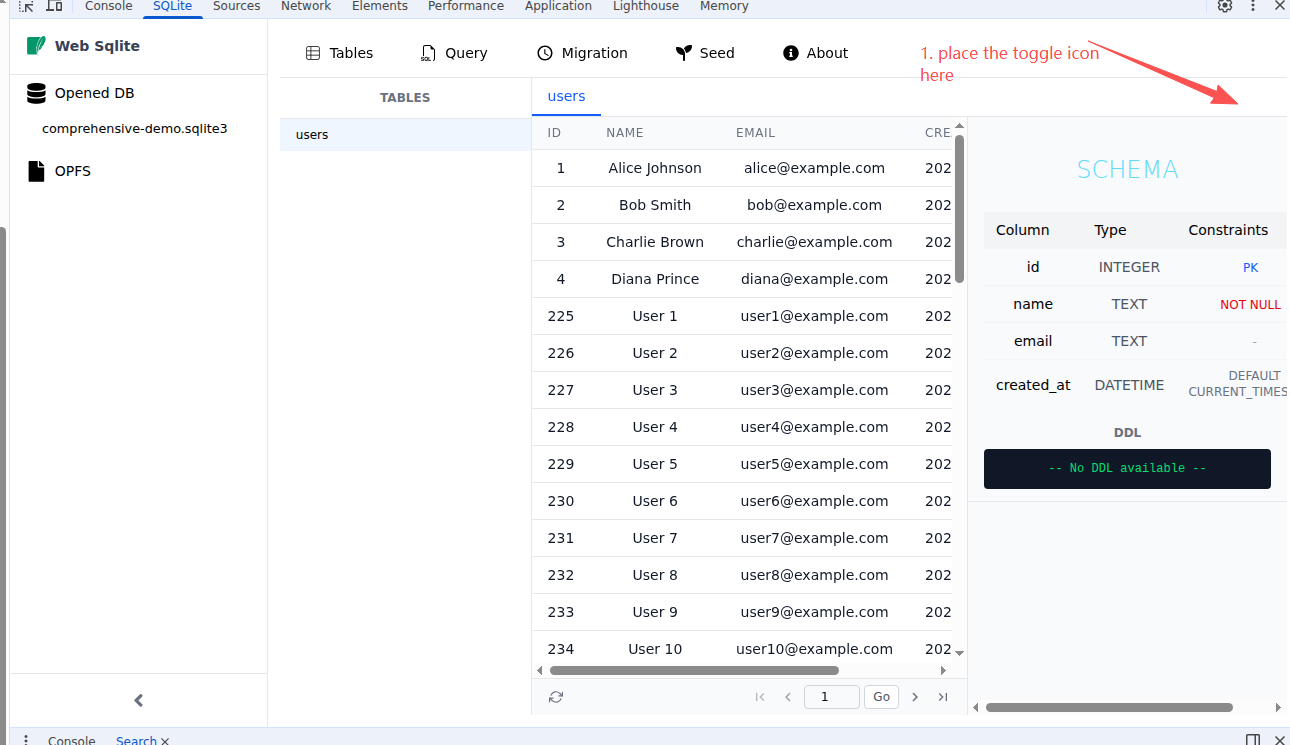
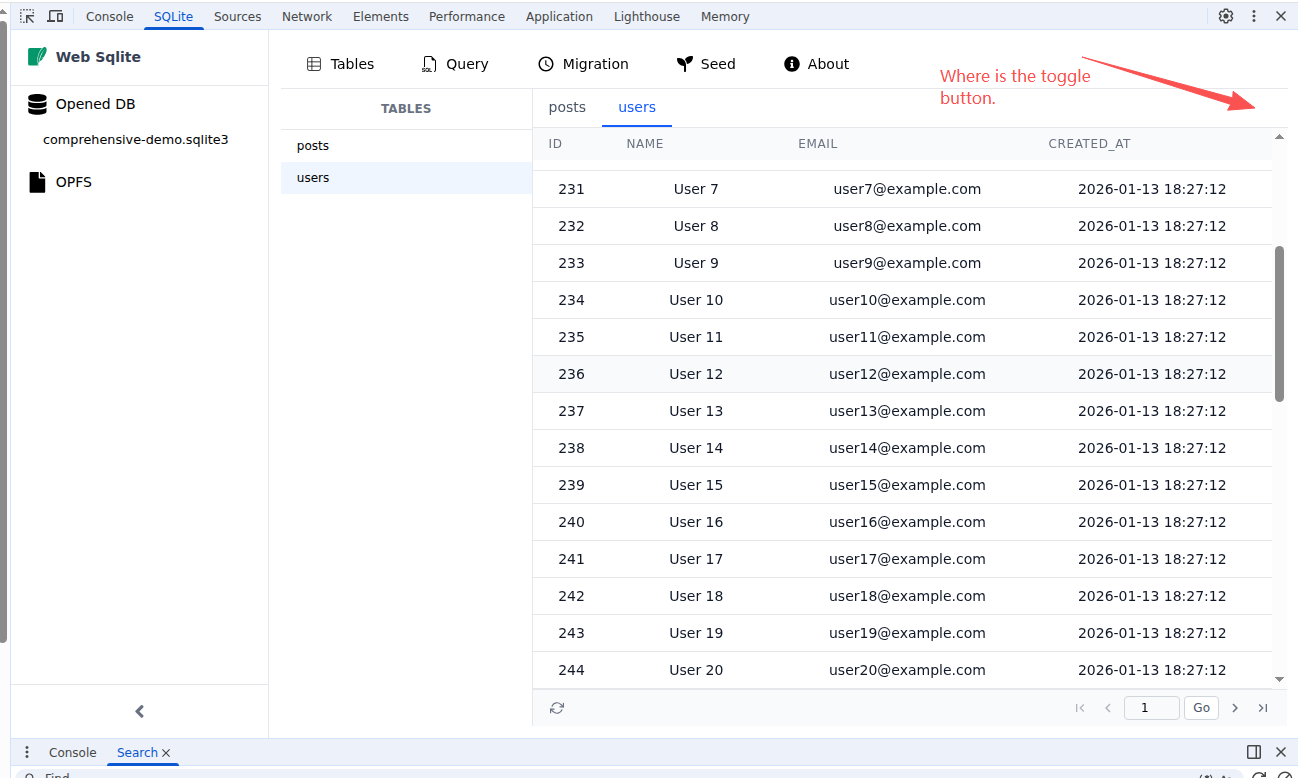
fix(f-003): move toggle button outside collapsible panel
The toggle button was inside the collapsible panel, so when the panel
was hidden (w-0 opacity-0), the toggle button was also hidden and
inaccessible.

Fixed by moving the toggle button to the table data panel area
as a floating button (absolute positioned) that's always visible.

Changes:
- TableDetail: Added toggle button with absolute positioning
- SchemaPanel: Removed onToggle prop
- SchemaPanelHeader: Removed toggle button and onToggle prop

diff --git a/src/devtools/components/TablesTab/TableDetail.tsx b/src/devtools/components/TablesTab/TableDetail.tsx
@@ -1,6 +1,7 @@
 import { useParams, useNavigate, useLocation } from "react-router-dom";
 import { useMemo, useCallback, useState, useEffect } from "react";
 import { decodeDatabaseName } from "@/devtools/utils/databaseNames";
+import { BsReverseLayoutSidebarInsetReverse } from "react-icons/bs";
 import { SchemaPanel } from "./SchemaPanel";
 import { PaginationBar } from "../TableTab/PaginationBar";
 import { databaseService } from "@/devtools/services/databaseService";
@@ -202,8 +203,19 @@ export const TableDetail = () => {
       <div className="flex-1 flex overflow-hidden">
         {/* Left: Table Data Panel - Responsive width */}
         <div
-          className={`flex flex-col overflow-hidden transition-all duration-200 ease-in-out ${schemaPanelVisible ? "flex-1" : "w-full"}`}
+          className={`flex flex-col overflow-hidden transition-all duration-200 ease-in-out relative ${schemaPanelVisible ? "flex-1" : "w-full"}`}
         >
+          {/* Schema Toggle Button - Always visible on right edge */}
+          <button
+            type="button"
+            onClick={handleToggleSchema}
+            className="absolute top-2 right-2 z-10 p-1.5 bg-white border border-gray-200 rounded shadow-sm text-gray-600 hover:text-gray-800 hover:bg-gray-50 transition-colors"
+            title={
+              schemaPanelVisible ? "Hide schema panel" : "Show schema panel"
+            }
+          >
+            <BsReverseLayoutSidebarInsetReverse size={14} />
+          </button>
           {schemaLoading || dataLoading ? (
             <div className="flex-1 flex items-center justify-center text-gray-500">
               Loading...
@@ -271,7 +283,6 @@ export const TableDetail = () => {
           error={schemaError}
           visible={schemaPanelVisible}
           activeTab={schemaTab}
-          onToggle={handleToggleSchema}
           onTabChange={handleSchemaTabChange}
         />
       </div>

diff --git a/src/devtools/components/TablesTab/SchemaPanelHeader.tsx b/src/devtools/components/TablesTab/SchemaPanelHeader.tsx
@@ -1,16 +1,14 @@
-import { BsReverseLayoutSidebarInsetReverse } from "react-icons/bs";
 import { ImTable2 } from "react-icons/im";
 
 /**
  * Schema panel header component
  *
  * @remarks
- * Displays toggle button (left) and tab buttons (right) for schema panel.
- * Toggle button shows/hides the panel. Tab buttons switch between table and DDL views.
+ * Displays tab buttons for switching between table and DDL views.
+ * Toggle button is now in the parent TableDetail component.
  *
  * @param props.visible - Current visibility state of the panel
  * @param props.activeTab - Currently active tab ('table' | 'ddl')
- * @param props.onToggle - Callback when toggle button is clicked
  * @param props.onTabChange - Callback when tab button is clicked
  *
  * @returns JSX.Element - Schema panel header
@@ -18,29 +16,17 @@ import { ImTable2 } from "react-icons/im";
 interface SchemaPanelHeaderProps {
   visible: boolean;
   activeTab: "table" | "ddl";
-  onToggle: () => void;
   onTabChange: (tab: "table" | "ddl") => void;
 }
 
 export const SchemaPanelHeader = ({
   visible,
   activeTab,
-  onToggle,
   onTabChange,
 }: SchemaPanelHeaderProps) => {
   return (
-    <div className="flex items-center justify-between px-2 py-1.5 bg-gray-50 border-b border-gray-200">
-      {/* Left: Toggle button */}
-      <button
-        type="button"
-        onClick={onToggle}
-        className="p-1 text-gray-600 hover:text-gray-800 disabled:opacity-50 disabled:cursor-not-allowed transition-colors"
-        title={visible ? "Hide schema panel" : "Show schema panel"}
-      >
-        <BsReverseLayoutSidebarInsetReverse size={14} />
-      </button>
-
-      {/* Right: Tab buttons */}
+    <div className="flex items-center justify-end px-2 py-1.5 bg-gray-50 border-b border-gray-200">
+      {/* Tab buttons */}
       <div className="flex items-center gap-1">
         {/* Table icon button */}
         <button

diff --git a/src/devtools/components/TablesTab/SchemaPanel.tsx b/src/devtools/components/TablesTab/SchemaPanel.tsx
@@ -11,13 +11,13 @@ import { SchemaErrorMessage } from "./SchemaErrorMessage";
  * @remarks
  * Toggleable panel with tabbed view for table schema and DDL.
  * Panel is hidden by default, shows table view or DDL view based on active tab.
+ * Toggle button is in the parent TableDetail component.
  *
  * @param props.schema - Table schema with columns and DDL
  * @param props.loading - Loading state
  * @param props.error - Error message
  * @param props.visible - Panel visibility state
  * @param props.activeTab - Currently active tab ('table' | 'ddl')
- * @param props.onToggle - Callback when toggle button is clicked
  * @param props.onTabChange - Callback when tab button is clicked
  *
  * @returns JSX.Element - Schema panel
@@ -28,7 +28,6 @@ interface SchemaPanelProps {
   error?: string | null;
   visible: boolean;
   activeTab: "table" | "ddl";
-  onToggle: () => void;
   onTabChange: (tab: "table" | "ddl") => void;
 }
 
@@ -38,7 +37,6 @@ export const SchemaPanel = ({
   error = null,
   visible,
   activeTab,
-  onToggle,
   onTabChange,
 }: SchemaPanelProps) => {
   const panelClasses = `
@@ -49,11 +47,10 @@ export const SchemaPanel = ({
 
   return (
     <div className={panelClasses}>
-      {/* Header with toggle button and tab buttons */}
+      {/* Header with tab buttons */}
       <SchemaPanelHeader
         visible={visible}
         activeTab={activeTab}
-        onToggle={onToggle}
         onTabChange={onTabChange}
       />
 

diff --git a/agent-docs/00-control/01-status.md b/agent-docs/00-control/01-status.md
@@ -20,34 +20,35 @@ NOTES
 
 ## 2) Active work
 
-| Item                            | Owner     | Status                   | Evidence                             |
-| ------------------------------- | --------- | ------------------------ | ------------------------------------ |
-| F-003: Schema Panel Enhancement | S8:worker | Ready for Implementation | `agent-docs/08-task/active/F-003.md` |
+| Item         | Owner     | Status | Evidence                      |
+| ------------ | --------- | ------ | ----------------------------- |
+| All Complete | S8:worker | Done   | F-003 implementation complete |
 
 ## 3) Done (Recent)
 
-| Task                                                                       | Owner     | Evidence                                                                                                                                                                                                                                                                                                 |
-| -------------------------------------------------------------------------- | --------- | -------------------------------------------------------------------------------------------------------------------------------------------------------------------------------------------------------------------------------------------------------------------------------------------------------- |
-| TASK-202: Keyboard Shortcuts                                               | S8:worker | `src/devtools/hooks/useKeyboardShortcuts.ts`, `src/devtools/components/KeyboardShortcutsHelp.tsx`, `src/devtools/DevTools.tsx` (keyboard handler), `src/devtools/components/Sidebar/Sidebar.tsx` (collapse state lifted), `src/devtools/components/QueryTab/QueryTab.tsx` (ref callbacks)                |
-| TASK-201: Query History                                                    | S8:worker | `src/devtools/hooks/useQueryHistory.ts`, `src/devtools/components/QueryTab/HistoryItem.tsx`, `src/devtools/components/QueryTab/HistorySidebar.tsx`, `src/devtools/components/QueryTab/QueryTab.tsx` (history integration), chrome.storage.local persistence                                              |
-| TASK-12: Testing & Release                                                 | S8:worker | `package.json` (v1.0.0), `dist/web-sqlite-devtools-1.0.0.zip`, production build (1.2MB)                                                                                                                                                                                                                  |
-| TASK-10: OPFS File Browser                                                 | S8:worker | `src/devtools/components/OPFSBrowser/OPFSGallery.tsx`, `src/devtools/components/OPFSBrowser/FileTree.tsx`, `src/devtools/components/OPFSBrowser/FileNode.tsx`, `src/devtools/DevTools.tsx` (OPFS route)                                                                                                  |
-| F-002: Database Tab Navigation Restructuring                               | S8:worker | `src/devtools/components/DatabaseTabs/`, `src/devtools/components/TablesTab/`, `src/devtools/components/QueryTab/`, `src/devtools/components/MigrationTab/`, `src/devtools/components/SeedTab/`, `src/devtools/components/AboutTab/`, `src/devtools/DevTools.tsx` (nested routes), documentation updates |
-| TASK-09: Log Streaming & Ring Buffer UI                                    | S8:worker | `src/devtools/hooks/useLogSubscription.ts`, `src/devtools/components/LogTab/LogView.tsx`, `src/devtools/components/LogTab/LogList.tsx`, `src/devtools/components/LogTab/LogFilter.tsx`, `src/devtools/DevTools.tsx` (log route)                                                                          |
-| TASK-06: Table Data & Schema UI                                            | S8:worker | `src/devtools/components/TableTab/TableSchemaPanel.tsx`, `src/devtools/components/TableTab/PaginationBar.tsx`, `src/devtools/components/TableTab/TableTabs.tsx`, `src/devtools/components/TableTab/TableContent.tsx`, `src/devtools/components/TableTab/DatabaseView.tsx`                                |
-| TASK-05.7/05.8: Component Migration (SKIPPED - components don't exist yet) | S8:worker | QueryTab, LogTab, OPFSBrowser components created in later tasks will use service layer directly from the start                                                                                                                                                                                           |
-| TASK-05.6: Component Migration - Table Browser Components                  | S8:worker | `src/devtools/components/Sidebar/DatabaseList.tsx` (databaseService.getDatabases), `src/devtools/components/TableTab/TableList.tsx` (databaseService.getTableList), `src/devtools/hooks/useInspectedWindowRequest.ts` (ServiceResponse)                                                                  |
-| TASK-05.5: Service Layer - OPFS File Browser Functions                     | S8:worker | `src/devtools/services/databaseService.ts` (OpfsFileEntry, OpfsDownloadResult types, formatFileSize, getOpfsFiles, downloadOpfsFile)                                                                                                                                                                     |
-| TASK-05.4: Service Layer - Migration & Versioning Functions                | S8:worker | `src/devtools/services/databaseService.ts` (ReleaseConfig, DevReleaseResult, RollbackResult, DbVersionResult types, devRelease, devRollback, getDbVersion)                                                                                                                                               |
-| TASK-05.3: Service Layer - Log Streaming Functions                         | S8:worker | `src/devtools/services/databaseService.ts` (LogEntry, LogSubscription, SubscribeResult types, subscribeLogs, unsubscribeLogs), `src/contentScript/subscriptions/LogRingBuffer.ts` (new file)                                                                                                             |
-| TASK-05.2: Service Layer - SQL Execution Functions                         | S8:worker | `src/devtools/services/databaseService.ts` (SqlValue, SQLParams, ExecResult types, execSQL)                                                                                                                                                                                                              |
-| TASK-05.1: Service Layer - Table Schema Functions                          | S8:worker | `src/devtools/services/databaseService.ts` (ColumnInfo, TableSchema, QueryResult types, getTableSchema, queryTableData)                                                                                                                                                                                  |
-| TASK-05: Database List & Table Browser                                     | S8:worker | `src/devtools/inspectedWindow.ts`, `src/devtools/hooks/useInspectedWindowRequest.ts`, `src/devtools/utils/databaseNames.ts`, `src/devtools/components/Sidebar/DatabaseList.tsx`, `src/devtools/components/TableTab/`, `src/devtools/DevTools.tsx`                                                        |
-| TASK-04: Icon State & Auto-Reconnect                                       | S8:worker | `src/background/iconState/`, `src/devtools/hooks/useConnection.ts`, `public/img/*-inactive.png`                                                                                                                                                                                                          |
-| TASK-03: Content Script Proxy & Messaging                                  | S8:worker | `src/contentScript/messaging/`, `src/background/messaging/`                                                                                                                                                                                                                                              |
-| TASK-02: Sidebar UI & Navigation                                           | S8:worker | `src/devtools/components/Sidebar/`, `EmptyState/`                                                                                                                                                                                                                                                        |
-| TASK-01: Project Setup (Bug Fix)                                           | S8:worker | `devtools.html` panel creation script added                                                                                                                                                                                                                                                              |
-| TASK-01: Project Setup (Original)                                          | S8:worker | `src/manifest.ts`, `src/messaging/`, `src/devtools/`                                                                                                                                                                                                                                                     |
+| Task                                                                       | Owner     | Evidence                                                                                                                                                                                                                                                                                                                                                                                                                                             |
+| -------------------------------------------------------------------------- | --------- | ---------------------------------------------------------------------------------------------------------------------------------------------------------------------------------------------------------------------------------------------------------------------------------------------------------------------------------------------------------------------------------------------------------------------------------------------------- |
+| F-003: Schema Panel Enhancement                                            | S8:worker | `src/devtools/components/TablesTab/SchemaPanel.tsx`, `src/devtools/components/TablesTab/SchemaPanelHeader.tsx`, `src/devtools/components/TablesTab/SchemaTableView.tsx`, `src/devtools/components/TablesTab/SchemaDDLView.tsx`, `src/devtools/components/TablesTab/SchemaLoadingSkeleton.tsx`, `src/devtools/components/TablesTab/SchemaErrorMessage.tsx`, `src/devtools/components/TablesTab/TableDetail.tsx` (state + handlers + responsive width) |
+| TASK-202: Keyboard Shortcuts                                               | S8:worker | `src/devtools/hooks/useKeyboardShortcuts.ts`, `src/devtools/components/KeyboardShortcutsHelp.tsx`, `src/devtools/DevTools.tsx` (keyboard handler), `src/devtools/components/Sidebar/Sidebar.tsx` (collapse state lifted), `src/devtools/components/QueryTab/QueryTab.tsx` (ref callbacks)                                                                                                                                                            |
+| TASK-201: Query History                                                    | S8:worker | `src/devtools/hooks/useQueryHistory.ts`, `src/devtools/components/QueryTab/HistoryItem.tsx`, `src/devtools/components/QueryTab/HistorySidebar.tsx`, `src/devtools/components/QueryTab/QueryTab.tsx` (history integration), chrome.storage.local persistence                                                                                                                                                                                          |
+| TASK-12: Testing & Release                                                 | S8:worker | `package.json` (v1.0.0), `dist/web-sqlite-devtools-1.0.0.zip`, production build (1.2MB)                                                                                                                                                                                                                                                                                                                                                              |
+| TASK-10: OPFS File Browser                                                 | S8:worker | `src/devtools/components/OPFSBrowser/OPFSGallery.tsx`, `src/devtools/components/OPFSBrowser/FileTree.tsx`, `src/devtools/components/OPFSBrowser/FileNode.tsx`, `src/devtools/DevTools.tsx` (OPFS route)                                                                                                                                                                                                                                              |
+| F-002: Database Tab Navigation Restructuring                               | S8:worker | `src/devtools/components/DatabaseTabs/`, `src/devtools/components/TablesTab/`, `src/devtools/components/QueryTab/`, `src/devtools/components/MigrationTab/`, `src/devtools/components/SeedTab/`, `src/devtools/components/AboutTab/`, `src/devtools/DevTools.tsx` (nested routes), documentation updates                                                                                                                                             |
+| TASK-09: Log Streaming & Ring Buffer UI                                    | S8:worker | `src/devtools/hooks/useLogSubscription.ts`, `src/devtools/components/LogTab/LogView.tsx`, `src/devtools/components/LogTab/LogList.tsx`, `src/devtools/components/LogTab/LogFilter.tsx`, `src/devtools/DevTools.tsx` (log route)                                                                                                                                                                                                                      |
+| TASK-06: Table Data & Schema UI                                            | S8:worker | `src/devtools/components/TableTab/TableSchemaPanel.tsx`, `src/devtools/components/TableTab/PaginationBar.tsx`, `src/devtools/components/TableTab/TableTabs.tsx`, `src/devtools/components/TableTab/TableContent.tsx`, `src/devtools/components/TableTab/DatabaseView.tsx`                                                                                                                                                                            |
+| TASK-05.7/05.8: Component Migration (SKIPPED - components don't exist yet) | S8:worker | QueryTab, LogTab, OPFSBrowser components created in later tasks will use service layer directly from the start                                                                                                                                                                                                                                                                                                                                       |
+| TASK-05.6: Component Migration - Table Browser Components                  | S8:worker | `src/devtools/components/Sidebar/DatabaseList.tsx` (databaseService.getDatabases), `src/devtools/components/TableTab/TableList.tsx` (databaseService.getTableList), `src/devtools/hooks/useInspectedWindowRequest.ts` (ServiceResponse)                                                                                                                                                                                                              |
+| TASK-05.5: Service Layer - OPFS File Browser Functions                     | S8:worker | `src/devtools/services/databaseService.ts` (OpfsFileEntry, OpfsDownloadResult types, formatFileSize, getOpfsFiles, downloadOpfsFile)                                                                                                                                                                                                                                                                                                                 |
+| TASK-05.4: Service Layer - Migration & Versioning Functions                | S8:worker | `src/devtools/services/databaseService.ts` (ReleaseConfig, DevReleaseResult, RollbackResult, DbVersionResult types, devRelease, devRollback, getDbVersion)                                                                                                                                                                                                                                                                                           |
+| TASK-05.3: Service Layer - Log Streaming Functions                         | S8:worker | `src/devtools/services/databaseService.ts` (LogEntry, LogSubscription, SubscribeResult types, subscribeLogs, unsubscribeLogs), `src/contentScript/subscriptions/LogRingBuffer.ts` (new file)                                                                                                                                                                                                                                                         |
+| TASK-05.2: Service Layer - SQL Execution Functions                         | S8:worker | `src/devtools/services/databaseService.ts` (SqlValue, SQLParams, ExecResult types, execSQL)                                                                                                                                                                                                                                                                                                                                                          |
+| TASK-05.1: Service Layer - Table Schema Functions                          | S8:worker | `src/devtools/services/databaseService.ts` (ColumnInfo, TableSchema, QueryResult types, getTableSchema, queryTableData)                                                                                                                                                                                                                                                                                                                              |
+| TASK-05: Database List & Table Browser                                     | S8:worker | `src/devtools/inspectedWindow.ts`, `src/devtools/hooks/useInspectedWindowRequest.ts`, `src/devtools/utils/databaseNames.ts`, `src/devtools/components/Sidebar/DatabaseList.tsx`, `src/devtools/components/TableTab/`, `src/devtools/DevTools.tsx`                                                                                                                                                                                                    |
+| TASK-04: Icon State & Auto-Reconnect                                       | S8:worker | `src/background/iconState/`, `src/devtools/hooks/useConnection.ts`, `public/img/*-inactive.png`                                                                                                                                                                                                                                                                                                                                                      |
+| TASK-03: Content Script Proxy & Messaging                                  | S8:worker | `src/contentScript/messaging/`, `src/background/messaging/`                                                                                                                                                                                                                                                                                                                                                                                          |
+| TASK-02: Sidebar UI & Navigation                                           | S8:worker | `src/devtools/components/Sidebar/`, `EmptyState/`                                                                                                                                                                                                                                                                                                                                                                                                    |
+| TASK-01: Project Setup (Bug Fix)                                           | S8:worker | `devtools.html` panel creation script added                                                                                                                                                                                                                                                                                                                                                                                                          |
+| TASK-01: Project Setup (Original)                                          | S8:worker | `src/manifest.ts`, `src/messaging/`, `src/devtools/`                                                                                                                                                                                                                                                                                                                                                                                                 |
 
 ## 4) Upcoming
 
@@ -138,3 +139,11 @@ NOTES
   - S5 Design: LLD updated with component interfaces
   - S7 Task Management: Micro-spec created with implementation tasks
   - Task catalog updated with F-003 in v1.2.0 release
+- **C21**: 2026-01-14 - F-003 implementation completed
+  - Created 6 new components: SchemaPanel, SchemaPanelHeader, SchemaTableView, SchemaDDLView, SchemaLoadingSkeleton, SchemaErrorMessage
+  - Updated TableDetail with schema panel state (visible, tab), handlers, responsive width
+  - Toggle visibility with BsReverseLayoutSidebarInsetReverse icon (hidden by default)
+  - Tabbed view: Table icon (ImTable2) + DDL text with emerald theme
+  - Responsive width: 320px when visible, 0px when hidden with 200ms transitions
+  - Removed "SCHEMA" and "DDL" headings to save vertical space
+  - Build passed with no errors

diff --git a/agent-docs/07-taskManager/02-task-catalog.md b/agent-docs/07-taskManager/02-task-catalog.md
@@ -384,23 +384,24 @@ NOTES
 
 ## Release v1.2.0 (Enhancements) - Future Work
 
-- [ ] **F-003**: Schema Panel Enhancement (NEW)
+- [x] **F-003**: Schema Panel Enhancement (NEW)
   - **Priority**: P1 (High)
   - **Dependencies**: F-002 (Database Tab Navigation)
-  - **Boundary**: `src/devtools/components/TableTab/TableDetail.tsx`, `src/devtools/components/TableTab/TableSchema.tsx`
+  - **Boundary**: `src/devtools/components/TablesTab/TableDetail.tsx`, `src/devtools/components/TablesTab/SchemaPanel.tsx`
   - **Maps to**: F-003
   - **Feature**: [F-003: Schema Panel Enhancement](agent-docs/01-discovery/features/F-003-schema-panel-enhancement.md)
+  - **Evidence**: 6 new components created, TableDetail updated with state + handlers + responsive width
   - **DoD**:
-    - Toggle button with BsReverseLayoutSidebarInsetReverse icon to show/hide panel
-    - Panel hidden by default (state: false)
-    - Remove "SCHEMA" title from schema panel
-    - Add header with two tab buttons: Table icon (ImTable2) + DDL text
-    - Active tab shows emerald-50 background, emerald-600 text
-    - Inactive tab shows gray-500 text
-    - Table view displays column info table
-    - DDL view displays SQL CREATE TABLE statement
-    - Table data expands to full width when panel hidden
-    - Smooth CSS transition (150-200ms) for collapse/expand
-    - Small button size (text-xs) matching pagination style
-    - Import icons from react-icons (bs, im)
-    - Build passed with no errors
+    - [x] Toggle button with BsReverseLayoutSidebarInsetReverse icon to show/hide panel
+    - [x] Panel hidden by default (state: false)
+    - [x] Remove "SCHEMA" title from schema panel
+    - [x] Add header with two tab buttons: Table icon (ImTable2) + DDL text
+    - [x] Active tab shows emerald-50 background, emerald-600 text
+    - [x] Inactive tab shows gray-500 text
+    - [x] Table view displays column info table
+    - [x] DDL view displays SQL CREATE TABLE statement
+    - [x] Table data expands to full width when panel hidden
+    - [x] Smooth CSS transition (150-200ms) for collapse/expand
+    - [x] Small button size (text-xs) matching pagination style
+    - [x] Import icons from react-icons (bs, im)
+    - [x] Build passed with no errors
